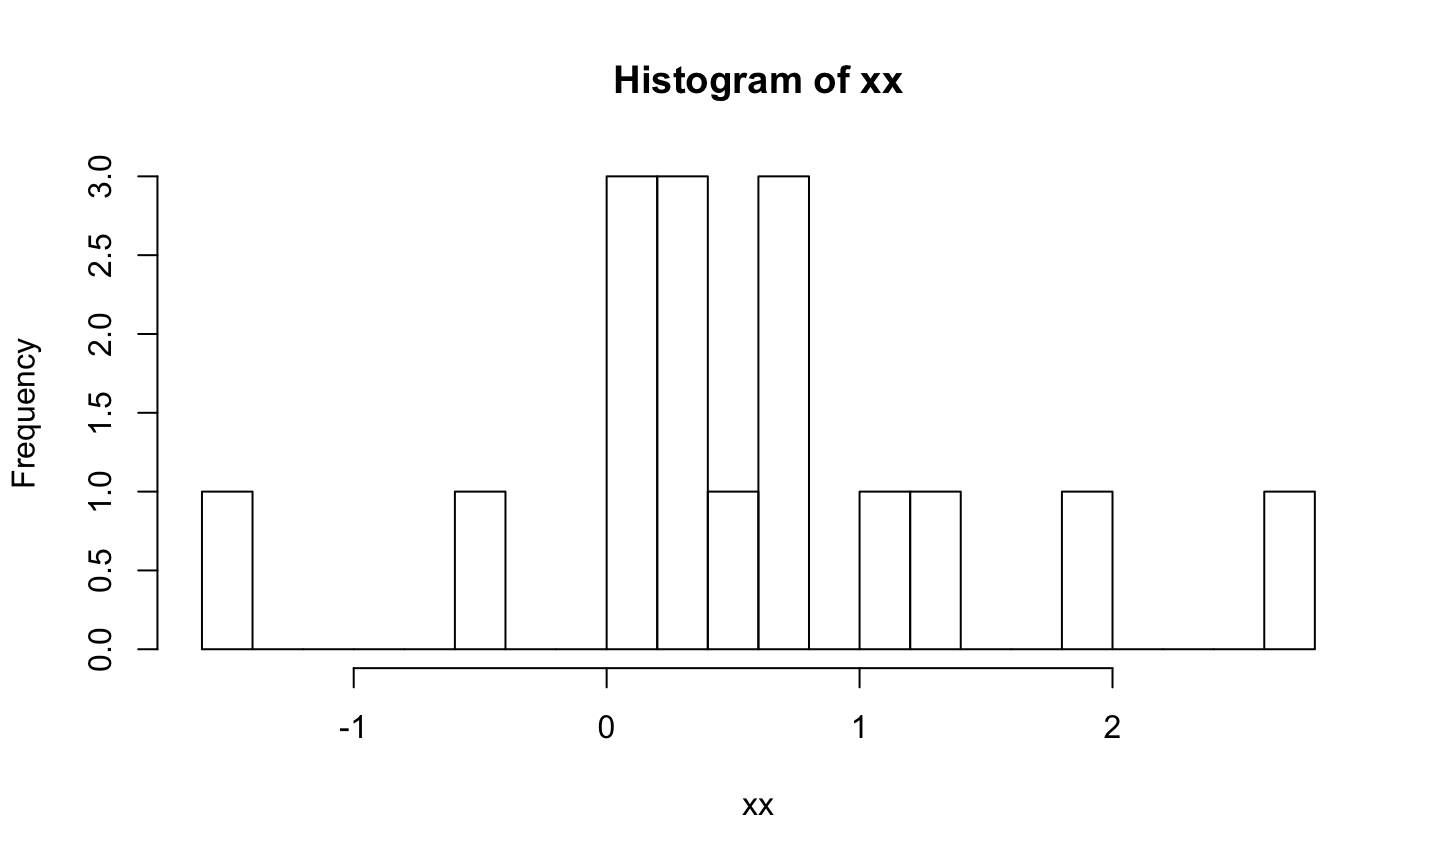
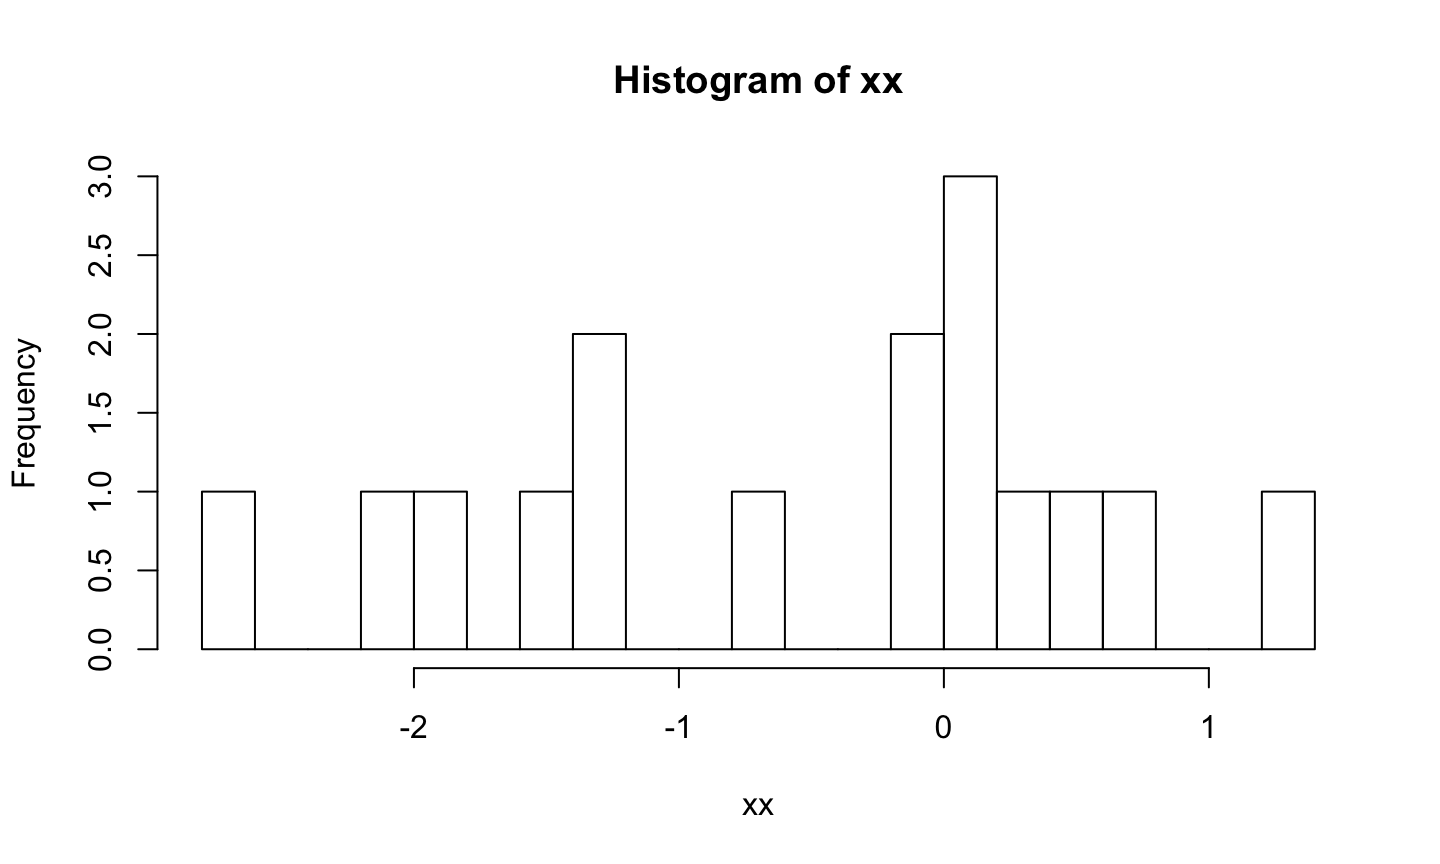
fixing top.R

diff --git a/index.html b/index.html
@@ -139,7 +139,7 @@ article {
 
 <slide class="segue dark nobackground level1"><hgroup class = 'auto-fadein'><h2>What are R Packages?</h2></hgroup><article  id="what-are-r-packages">
 
-</article></slide><slide class=""><hgroup><h2>R Packages</h2></hgroup><article  class="build" id="r-packages">
+</article></slide><slide class=""><hgroup><h2>R Packages</h2></hgroup><article  id="r-packages" class="build">
 
 <ol class = 'build'>
 <li>Sets of Functions</li>
@@ -357,7 +357,7 @@ usethis::use_mit_license()</pre>
 
 <p>Save this to <code>top.R</code> file in <code>R/</code> (where R functions are). Delete <code>hello.R</code> file if present.</p>
 
-</article></slide><slide class="segue dark nobackground level1"><hgroup class = 'auto-fadein'><h2>Function names should likely be verbs</h2></hgroup><article  id="function-names-should-likely-be-verbs">
+</article></slide><slide class="segue dark nobackground level1"><hgroup class = 'auto-fadein'><h2>Function names should likely be verbs, though (e.g. <code>get_top</code>)</h2></hgroup><article  id="function-names-should-likely-be-verbs-though-e.g.-get_top">
 
 </article></slide><slide class=""><hgroup><h2>Adding a package to DESCRIPTION field</h2></hgroup><article  id="adding-a-package-to-description-field">
 
@@ -374,6 +374,18 @@ usethis::use_mit_license()</pre>
 <p>Add the pipe (<code>%&gt;%</code>) to a package</p>
 
 <pre class = 'prettyprint lang-r'>usethis::use_pipe()</pre>
+
+<pre >#&#39; Pipe operator
+#&#39;
+#&#39; See \code{magrittr::\link[magrittr:pipe]{\%&gt;\%}} for details.
+#&#39;
+#&#39; @name %&gt;%
+#&#39; @rdname pipe
+#&#39; @keywords internal
+#&#39; @export
+#&#39; @importFrom magrittr %&gt;%
+#&#39; @usage lhs \%&gt;\% rhs
+NULL</pre>
 
 </article></slide><slide class=""><hgroup><h2>Creating a roxygen header</h2></hgroup><article  id="creating-a-roxygen-header">
 
@@ -612,8 +624,10 @@ usethis::use_mit_license()</pre>
 
 <p>The ellipsis/dots <code>...</code> can pass arguments through to other methods:</p>
 
-<pre class = 'prettyprint lang-r'>#&#39; @param ... pass additional methods to [graphics::hist]
-top = function(x, n, ...) {
+<pre class = 'prettyprint lang-r'>#&#39; @rdname top
+#&#39; @export 
+#&#39; @param ... pass additional methods to [graphics::hist]
+top_with_dots = function(x, n, ...) {
   xx = x[1:n, 1:n]
   hist(xx, ...)
   print(xx)
@@ -621,28 +635,28 @@ top = function(x, n, ...) {
 
 </article></slide><slide class=""><hgroup><h2>Passing arguments &ldquo;through&rdquo;</h2></hgroup><article  id="passing-arguments-through-1">
 
-<pre class = 'prettyprint lang-r'>top(matrix(rnorm(100), nrow = 10), n = 8, breaks = 20)</pre>
+<pre class = 'prettyprint lang-r'>top_with_dots(matrix(rnorm(100), nrow = 10), n = 8, breaks = 20)</pre>
 
 <p><img src="index_files/figure-html/unnamed-chunk-21-1.png" width="720" /></p>
 
-<pre >           [,1]       [,2]       [,3]       [,4]        [,5]       [,6]
-[1,]  0.2192292  0.9406347  1.5206589 -0.2999760  0.80144886  0.1289643
-[2,]  1.7079653  0.4376512  0.7530701  1.2644699  0.93196859  1.9070886
-[3,] -1.0384861 -0.9522370 -0.9308497  1.5941830 -0.71431062  1.4433517
-[4,]  0.3610628 -0.5285194  1.3886855 -1.8142617  0.05181826  0.3150678
-[5,]  1.5174793  0.1528741 -0.3094510  0.4758910  1.08231808 -1.3044199
-[6,]  0.3912001  0.3133300 -0.7130574 -0.4324381 -1.42667867 -1.7189113
-[7,] -1.1065394  0.9858787  1.0235840  0.1158156 -1.91562088  0.7533922
-[8,] -0.4599813 -0.7958871  0.9841577  0.9617492 -1.89092973 -1.8355250
-            [,7]       [,8]
-[1,]  0.19661864  0.1383780
-[2,] -0.09663403 -0.8391125
-[3,] -0.46054871 -2.4922486
-[4,]  0.44094616 -0.5330493
-[5,] -0.14247656 -0.3285502
-[6,] -0.56807240 -0.7586985
-[7,]  0.72022027 -0.8201074
-[8,]  0.56190005  0.1649808</pre>
+<pre >           [,1]        [,2]        [,3]       [,4]       [,5]       [,6]
+[1,]  0.7140816 -0.55565617 -1.32202304  2.4737886  0.1831091 -0.6760668
+[2,]  0.4292299  0.20055260 -0.77719650  0.7020308 -1.4139069 -0.8714099
+[3,] -1.2052500 -0.03326426 -0.35718281  1.3560201  0.1312547 -0.1746154
+[4,]  1.3006658  1.33594740 -0.83252246 -0.4916309 -1.0203735  0.7670795
+[5,]  0.3633291 -0.81760815  0.72865442  2.1539698 -1.1005687 -0.9714571
+[6,] -0.7454008 -0.95806171  0.10566795 -0.4282773 -0.9090058 -1.5229573
+[7,] -0.4614851  0.11205088  0.04211314  0.5394770  0.3860292  1.3732152
+[8,] -1.1603486 -0.81075380 -1.17779355  0.2617205 -1.9127061  0.9629079
+           [,7]        [,8]
+[1,] -2.1793847 -1.41739071
+[2,] -0.1986075  0.43993983
+[3,]  0.5537047 -1.06737974
+[4,]  1.4938638  0.43359731
+[5,]  0.6636340 -0.32114394
+[6,] -0.7923948 -1.76354800
+[7,]  0.8254306  0.03894572
+[8,] -1.3157846 -0.50421702</pre>
 
 </article></slide><slide class=""><hgroup><h2>Picking one option and Checking for input</h2></hgroup><article  id="picking-one-option-and-checking-for-input">
 
@@ -654,7 +668,7 @@ top = function(x, n, ...) {
   if (!assertthat::is.number(n)) { # make sure n is just one value and numeric
     stop(&quot;n should be a number of length 1!&quot;)
   }
-  top_x = top(x, n = n, ...)
+  top_x = top_with_dots(x, n = n, ...)
   func = switch(stat, mean = function(x) mean(x, na.rm = TRUE),
                 &quot;median&quot; = median, &quot;sd&quot; = sd)
   return(func(top_x))
@@ -669,13 +683,13 @@ top = function(x, n, ...) {
 
 <p><img src="index_files/figure-html/unnamed-chunk-23-1.png" width="720" /></p>
 
-<pre >           [,1]      [,2]        [,3]       [,4]
-[1,]  1.9010668 1.1673998 0.048793464  0.3971798
-[2,] -1.4016426 0.2030129 0.737208974 -0.5524079
-[3,]  0.6350658 1.2976467 0.584080456  0.2464264
-[4,]  0.1024248 0.6808001 0.004561645  2.6169431</pre>
+<pre >           [,1]       [,2]      [,3]       [,4]
+[1,] 0.01923548 -0.1656327 -2.684081 -0.1670431
+[2,] 0.29380011  0.7424873 -1.464115 -1.3160647
+[3,] 0.48887402 -0.6360692  1.286316 -1.3546858
+[4,] 0.04972810  0.1160757 -1.856003 -2.0356753</pre>
 
-<pre >[1] 0.541785</pre>
+<pre >[1] -0.5426783</pre>
 
 </article></slide><slide class=""><hgroup><h2>&ldquo;Printing&rdquo; Output and Checking for Input</h2></hgroup><article  id="printing-output-and-checking-for-input">
 
